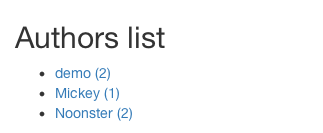
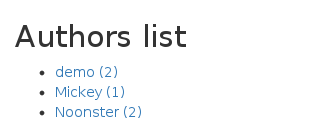
Change images

diff --git a/app/templates/phantomcss/dashboard.js b/app/templates/phantomcss/dashboard.js
@@ -8,7 +8,7 @@ phantomcss.init({
   libraryRoot: './node_modules/phantomcss',
   // Reduce the default tolerance, to allow for different fonts to be created
   // on different systems.
-  mismatchTolerance: 1
+  // mismatchTolerance: 1
 });
 
 casper.start('http://localhost:9000/#/login');
